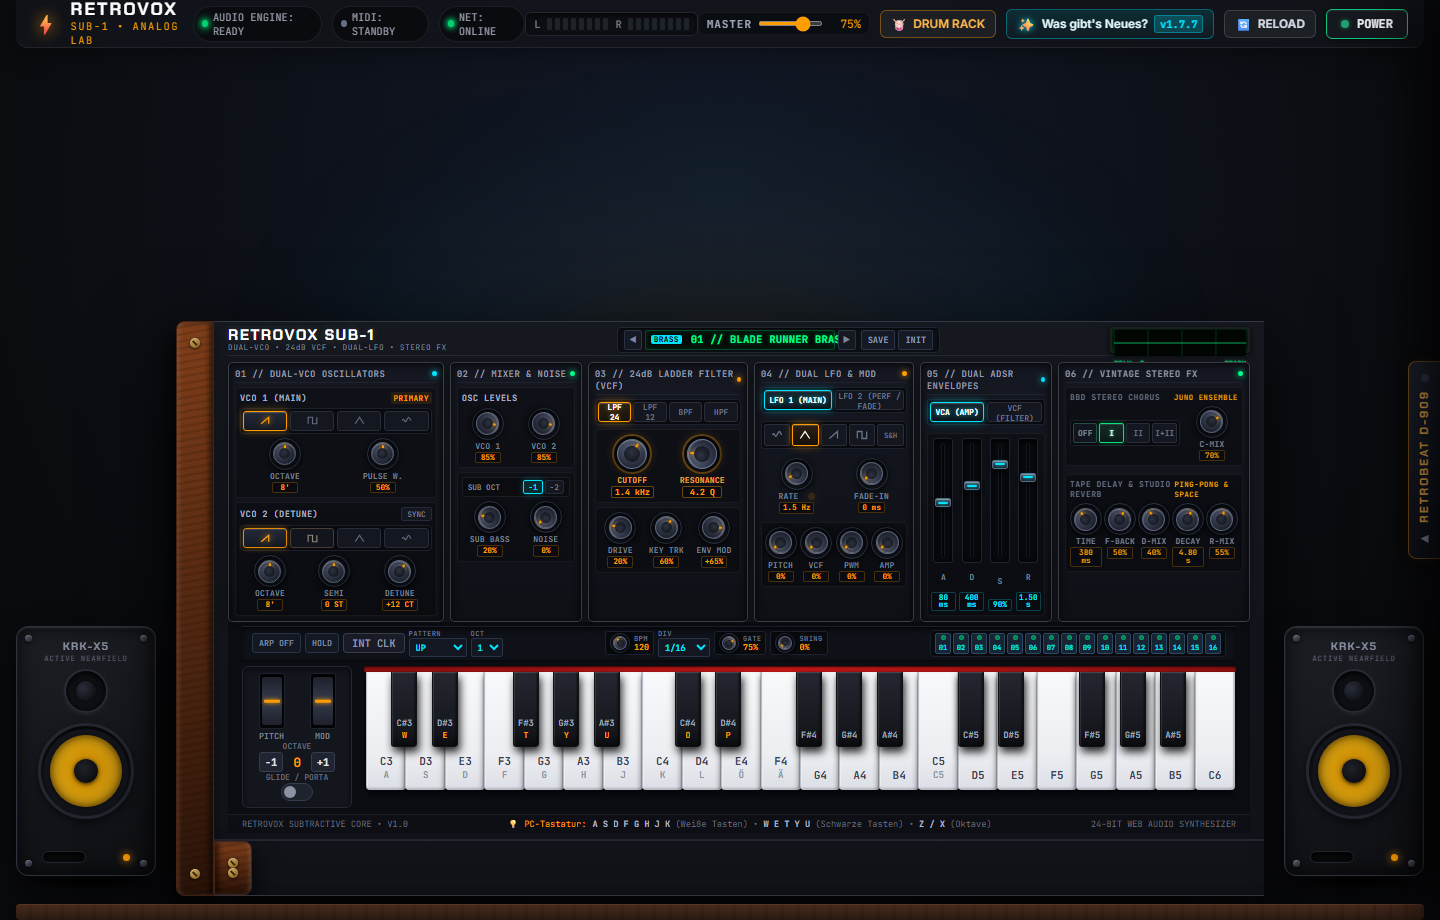
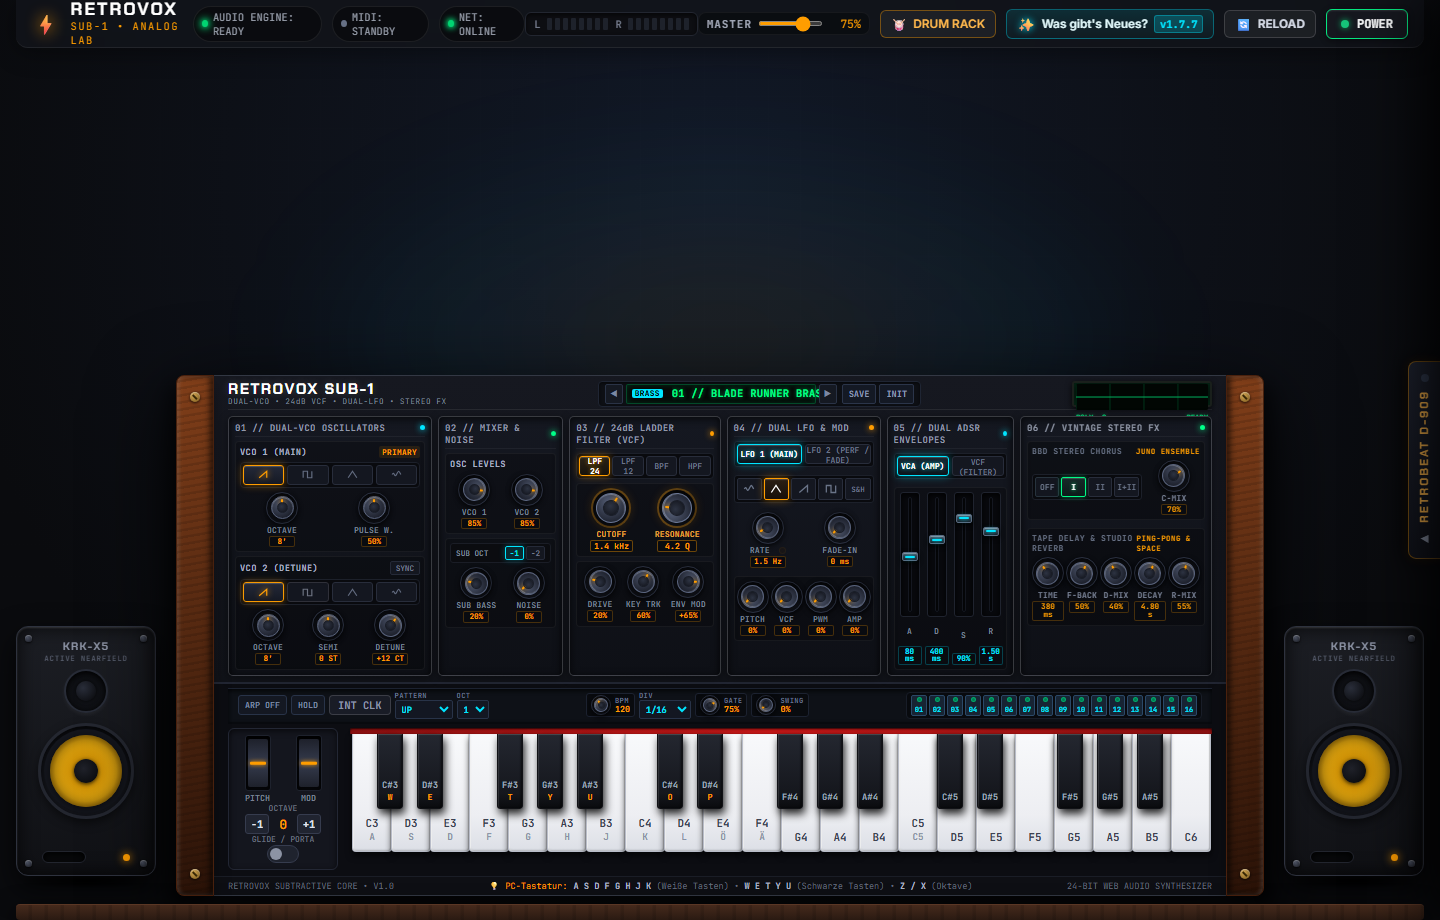
fix(layout): restore right wooden side cheek by fixing nested closing div in index.html

Changed region(s): [[0.125, 0.3348, 0.875, 0.9739]]

diff --git a/index.html b/index.html
@@ -795,7 +795,11 @@ window.addEventListener('DOMContentLoaded', () => {
               <!-- End of Slide 3 -->
 
             </div>
+            <!-- End of modular-control-surface -->
           </div>
+          <!-- End of Synth Top Panel -->
+        </div>
+        <!-- End of Synth Top Section -->
 
           <!-- Bottom Section: Performance Controls & 3D Keybed -->
           <div class="synth-bottom-panel">
